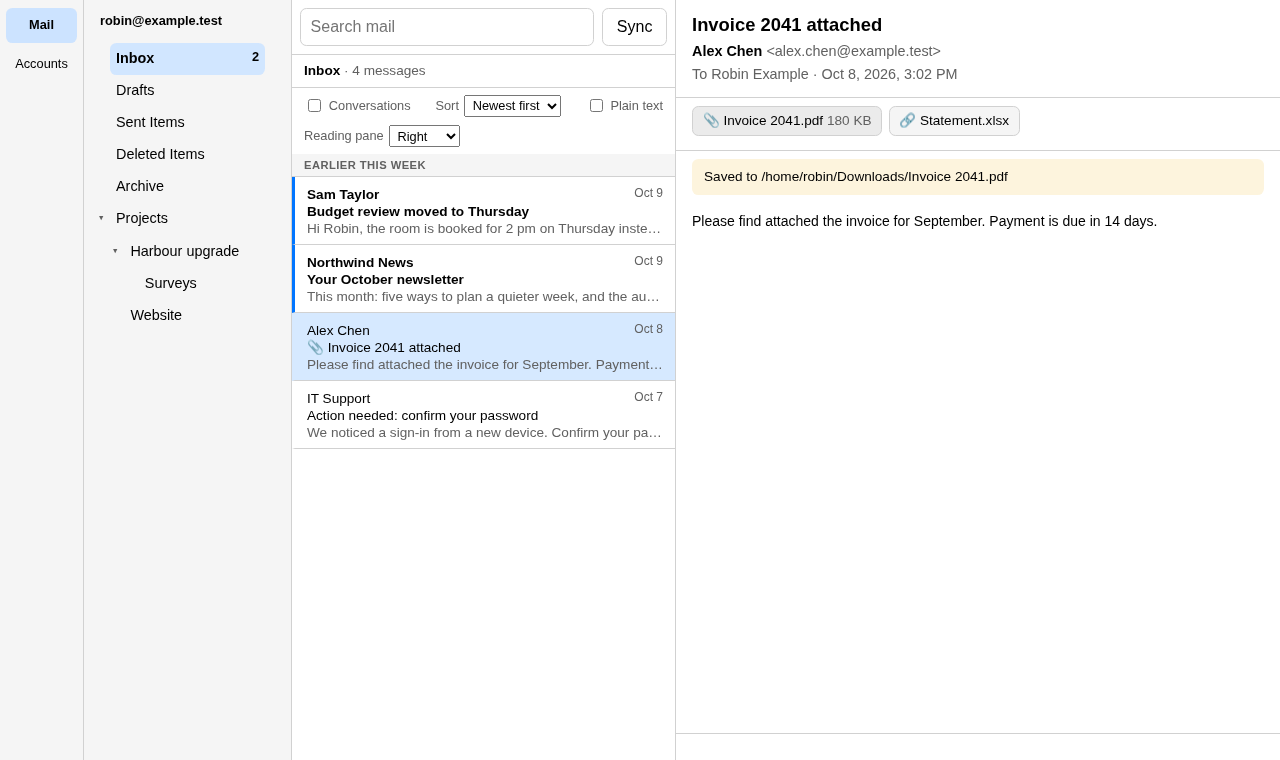
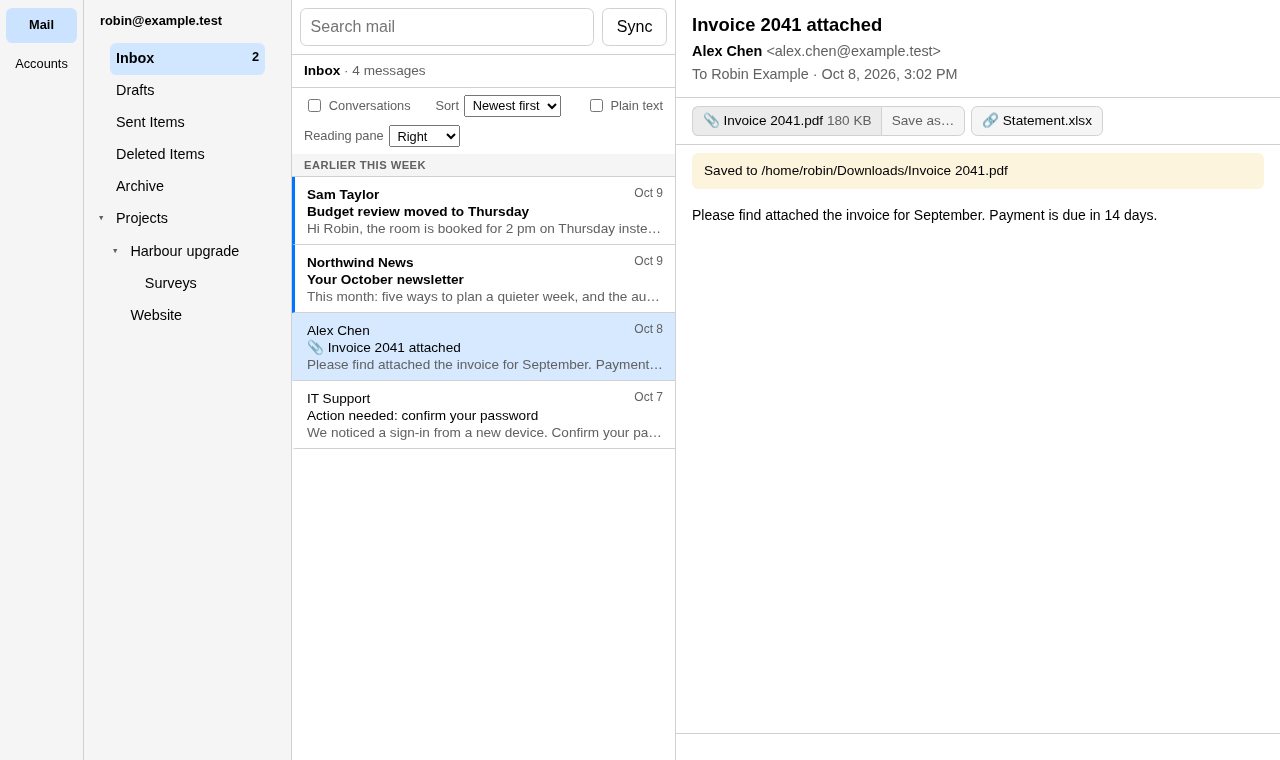
Save an attachment to a place chosen in the system's save dialog
"Save as…" beside an attachment asks where with the system's own dialog,
offering the sender's name cut down to a plain file name, and saves
there. The dialog only chooses; the saving is still the command. The
window is given no file access of its own: the dialog plugin's commands
are not granted to it.

Claude-Session: https://claude.ai/code/session_01Q2Y6RTMSZRHYMsgt54e2W8

Changed region(s): [[0.5312, 0.1513, 1.0, 0.3026]]

diff --git a/app/tests/mail.spec.ts b/app/tests/mail.spec.ts
@@ -295,12 +295,12 @@ test("attachments are listed on the message and saved when asked", async ({ page
 
     // The picture within the body is not offered as a file.
     await expect(attached.getByRole("listitem")).toHaveCount(2);
-    await expect(attached.getByRole("button", { name: /Invoice 2041\.pdf/ })).toContainText("180 KB");
+    await expect(attached.getByRole("button", { name: /^📎 Invoice 2041\.pdf/ })).toContainText("180 KB");
     // A link to a file kept elsewhere has nothing to save.
     await expect(attached.getByRole("button", { name: /Statement/ })).toHaveCount(0);
     await expect(attached).toContainText("Statement.xlsx");
 
-    await attached.getByRole("button", { name: /Invoice 2041\.pdf/ }).click();
+    await attached.getByRole("button", { name: /^📎 Invoice 2041\.pdf/ }).click();
     await expect(page.getByText("Saved to /home/robin/Downloads/Invoice 2041.pdf")).toBeVisible();
     await picture(page, "attachments");
 
@@ -398,4 +398,24 @@ test("a list by date is marked off into today, yesterday and earlier", async ({ 
     await page.getByRole("combobox", { name: "Sort" }).selectOption("sender");
     await expect(page.locator(".stretch")).toHaveCount(0);
     await expect(page.locator(".starts")).toHaveCount(0);
+});
+
+test("an attachment can be saved to a place chosen in the save dialog", async ({ page }) => {
+    await withCore(page, { accounts: [robin], mail: inbox, savePath: "/home/robin/Documents/September.pdf" });
+    await messages(page).getByRole("option").filter({ hasText: "Invoice 2041" }).click();
+
+    await page.getByRole("button", { name: "Save Invoice 2041.pdf as…" }).click();
+
+    await expect(page.getByText("Saved to /home/robin/Documents/September.pdf")).toBeVisible();
+    expect((await ran(page)).find((r) => r.command === "mail.attachments.save")?.args.path).toBe("/home/robin/Documents/September.pdf");
+});
+
+test("dismissing the save dialog saves nothing", async ({ page }) => {
+    await withCore(page, { accounts: [robin], mail: inbox });
+    await messages(page).getByRole("option").filter({ hasText: "Invoice 2041" }).click();
+
+    await page.getByRole("button", { name: "Save Invoice 2041.pdf as…" }).click();
+
+    await expect(page.getByText("Saved to")).toHaveCount(0);
+    expect((await ran(page)).some((r) => r.command === "mail.attachments.save")).toBe(false);
 });

diff --git a/app/tests/core.ts b/app/tests/core.ts
@@ -168,6 +168,8 @@ export interface FakeCore {
     arrives?: FakeMail[];
     /** The words the next sync fails with. */
     syncFails?: string;
+    /** Where the save dialog says to save. Left out, the dialog is dismissed. */
+    savePath?: string;
     /** Folders already pinned as favourites. */
     pinned?: string[];
     /** True when Brolga has no app registration of its own, as now. */
@@ -323,7 +325,7 @@ export async function withCore(page: Page, core: FakeCore = {}) {
             "mail.attachments.save": (args) => {
                 const found = mail.find((each) => each.id === args.message_id)?.attachments?.find((each) => each.id === args.attachment_id);
                 if (!found) throw { code: "failed", message: "This message has no such attachment." };
-                return { path: `/home/robin/Downloads/${found.name}`, size: found.size };
+                return { path: args.path ?? `/home/robin/Downloads/${found.name}`, size: found.size };
             },
             "mail.search": (args) => {
                 const words = String(args.query).toLowerCase().split(/\s+/).filter(Boolean);
@@ -353,6 +355,8 @@ export async function withCore(page: Page, core: FakeCore = {}) {
             ran,
             __TAURI_INTERNALS__: {
                 invoke: async (name: string, payload: { command: string; args?: Record<string, unknown> }) => {
+                    // The save dialog: the place this test says was chosen, or dismissed.
+                    if (name === "choose_save_path") return core.savePath ?? null;
                     if (name !== "execute_command") throw new Error(`The frontend called ${name}, which is not a command.`);
                     const run = commands[payload.command];
                     if (!run) throw { code: "unknown_command", message: `there is no command called \`${payload.command}\`` };

diff --git a/app/src/lib/ReadingPane.svelte b/app/src/lib/ReadingPane.svelte
@@ -13,7 +13,8 @@
         attachments: Attachment[];
         /** What became of the last attachment saved: where it went, or why it did not. */
         saved: string | null;
-        onSave: (attachment: Attachment) => void;
+        /** Save to the downloads folder, or with `ask` to a place chosen in a dialog. */
+        onSave: (attachment: Attachment, ask?: boolean) => void;
         /** Always show this sender's remote pictures, or stop. */
         onTrust: (address: string, trusted: boolean) => void;
         onShowImages: () => void;
@@ -177,6 +178,9 @@
                             <button type="button" class="attachment" title="Save to your downloads folder" onclick={() => onSave(each)}>
                                 📎 {each.name || "Attachment"} <span class="muted">{size(each.size)}</span>
                             </button>
+                            <button type="button" class="attachment as" aria-label="Save {each.name || 'attachment'} as…" title="Choose where to save it" onclick={() => onSave(each, true)}>
+                                Save as…
+                            </button>
                         {/if}
                     </li>
                 {/each}
@@ -271,6 +275,20 @@
         flex-wrap: wrap;
         gap: 0.4rem;
         border-bottom: 1px solid var(--line);
+    }
+
+    .attachments li {
+        display: flex;
+    }
+
+    .attachments li .attachment:first-child:not(:last-child) {
+        border-right: 0;
+        border-radius: 0.4rem 0 0 0.4rem;
+    }
+
+    .attachment.as {
+        border-radius: 0 0.4rem 0.4rem 0;
+        color: var(--muted);
     }
 
     .attachment {

diff --git a/app/src/lib/Mail.svelte b/app/src/lib/Mail.svelte
@@ -1,6 +1,6 @@
 <script lang="ts">
     import type { Account } from "./accounts";
-    import { say } from "./commands";
+    import { chooseSavePath, say } from "./commands";
     import { type Attachment, type Folder, type Message, type Opened, type Sort, type View, getConversation, listAttachments, listFolders, listMessages, openLink, openMessage, saveAttachment, searchMail, setFavourite, setTrustedSender, syncNow } from "./mail";
     import MessageList from "./MessageList.svelte";
     import ReadingPane from "./ReadingPane.svelte";
@@ -35,11 +35,15 @@
     /** What became of the last attachment saved. */
     let saved = $state<string | null>(null);
 
-    async function save(attachment: Attachment) {
+    /** Save to the downloads folder, or first ask where. */
+    async function save(attachment: Attachment, ask = false) {
         if (!accountId || !opened) return;
         saved = null;
         try {
-            const result = await saveAttachment(accountId, opened.message.id, attachment.id);
+            const messageId = opened.message.id;
+            const path = ask ? await chooseSavePath(attachment.name || "attachment") : undefined;
+            if (ask && !path) return;
+            const result = await saveAttachment(accountId, messageId, attachment.id, path ?? undefined);
             saved = `Saved to ${result.path}`;
         } catch (failure) {
             saved = say(failure);

diff --git a/app/src/lib/mail.ts b/app/src/lib/mail.ts
@@ -114,8 +114,8 @@ export const searchMail = async (account_id: string, query: string) =>
 export const listAttachments = async (account_id: string, message_id: string) =>
     (await execute<{ attachments: Attachment[] }>("mail.attachments.list", { account_id, message_id })).attachments;
 
-export const saveAttachment = (account_id: string, message_id: string, attachment_id: string) =>
-    execute<{ path: string; size: number }>("mail.attachments.save", { account_id, message_id, attachment_id });
+export const saveAttachment = (account_id: string, message_id: string, attachment_id: string, path?: string) =>
+    execute<{ path: string; size: number }>("mail.attachments.save", { account_id, message_id, attachment_id, ...(path ? { path } : {}) });
 
 /** A size in bytes as a person would say it. */
 export function size(bytes: number): string {

diff --git a/app/src/lib/commands.ts b/app/src/lib/commands.ts
@@ -16,6 +16,13 @@ export function execute<T>(command: string, args: Record<string, unknown> = {}):
     return invoke<T>("execute_command", { command, args });
 }
 
+/**
+ * Ask where to save a file, with the system's own dialog. Null if it was
+ * dismissed. A dialog is the window's own business, so this is the one thing
+ * here that is not a command; the saving that follows is.
+ */
+export const chooseSavePath = (suggestedName: string) => invoke<string | null>("choose_save_path", { suggestedName });
+
 export function isCommandFailure(value: unknown): value is CommandFailure {
     return typeof value === "object" && value !== null && "code" in value && "message" in value;
 }

diff --git a/crates/core/src/mail_commands.rs b/crates/core/src/mail_commands.rs
@@ -122,6 +122,7 @@ struct SaveAttachment {
     account_id: Option<String>,
     message_id: String,
     attachment_id: String,
+    path: Option<String>,
 }
 
 #[derive(Deserialize)]
@@ -448,10 +449,16 @@ async fn attachments(context: Context, args: Attachments) -> Result<Value, Comma
 }
 
 async fn save_attachment(context: Context, args: SaveAttachment) -> Result<Value, CommandError> {
-    let folder = context
-        .downloads
-        .clone()
-        .ok_or_else(|| failed("This computer has no downloads folder to save into."))?;
+    let chosen = args.path.as_deref().map(std::path::PathBuf::from);
+    let folder = match &chosen {
+        Some(_) => None,
+        None => Some(
+            context
+                .downloads
+                .clone()
+                .ok_or_else(|| failed("This computer has no downloads folder to save into."))?,
+        ),
+    };
     let account = context
         .account(args.account_id.as_deref())
         .map_err(failed)?;
@@ -490,10 +497,14 @@ async fn save_attachment(context: Context, args: SaveAttachment) -> Result<Value
     }
 
     let size = content.len();
-    let path = tokio::task::spawn_blocking(move || crate::saving::save(&folder, &name, &content))
-        .await
-        .map_err(failed)?
-        .map_err(|e| failed(format!("The attachment could not be saved. {e}")))?;
+    let path = tokio::task::spawn_blocking(move || match (chosen, folder) {
+        (Some(path), _) => crate::saving::save_as(&path, &content),
+        (None, Some(folder)) => crate::saving::save(&folder, &name, &content),
+        (None, None) => Err(std::io::Error::other("nowhere to save to")),
+    })
+    .await
+    .map_err(failed)?
+    .map_err(|e| failed(format!("The attachment could not be saved. {e}")))?;
 
     Ok(json!({ "path": path.to_string_lossy(), "size": size }))
 }
@@ -1087,7 +1098,11 @@ pub(crate) fn register(registry: &mut Registry, context: Context) -> Result<(), 
                 "properties": {
                     "account_id": account_id_property(),
                     "message_id": { "type": "string" },
-                    "attachment_id": { "type": "string", "description": "From mail.attachments.list." }
+                    "attachment_id": { "type": "string", "description": "From mail.attachments.list." },
+                    "path": {
+                        "type": "string",
+                        "description": "A full path to save to instead, as chosen by a person in a save dialog. Whatever is there is replaced."
+                    }
                 },
                 "required": ["message_id", "attachment_id"],
                 "additionalProperties": false

diff --git a/app/src-tauri/src/lib.rs b/app/src-tauri/src/lib.rs
@@ -9,11 +9,12 @@ use std::sync::Arc;
 use brolga_auth::Authority;
 use brolga_commands::{CommandError, Registry};
 use brolga_control::{Server, default_endpoint};
-use brolga_core::{Core, CoreOptions, DEFAULT_CLIENT_ID};
+use brolga_core::{Core, CoreOptions, DEFAULT_CLIENT_ID, safe_file_name};
 use brolga_platform::{SystemSecrets, data_dir, downloads_dir, open_in_browser};
 use serde::Serialize;
 use serde_json::Value;
 use tauri::State;
+use tauri_plugin_dialog::DialogExt;
 
 /// A command that did not run, as the frontend receives it.
 #[derive(Serialize)]
@@ -43,6 +44,30 @@ async fn execute_command(
     Ok(registry.execute(&command, args).await?)
 }
 
+/// Ask where to save a file, with the system's own dialog. Gives back the
+/// place chosen, or nothing if the dialog was dismissed. Choosing is all it
+/// does: the saving is a command, like everything else.
+///
+/// The name offered is the sender's, cut down to a plain file name first.
+#[tauri::command]
+async fn choose_save_path(app: tauri::AppHandle, suggested_name: String) -> Option<String> {
+    let (chosen, choice) = tokio::sync::oneshot::channel();
+    let mut dialog = app
+        .dialog()
+        .file()
+        .set_file_name(safe_file_name(&suggested_name));
+    if let Some(downloads) = downloads_dir() {
+        dialog = dialog.set_directory(downloads);
+    }
+    dialog.save_file(move |path| {
+        let _ = chosen.send(path);
+    });
+
+    let path = choice.await.ok()??.into_path().ok()?;
+
+    Some(path.to_string_lossy().into_owned())
+}
+
 pub fn run() -> Result<(), Box<dyn std::error::Error>> {
     // Opening the channel is how a second copy finds out it is one, so it is
     // done first, before any data is opened or there is a window to show.
@@ -65,12 +90,13 @@ pub fn run() -> Result<(), Box<dyn std::error::Error>> {
     let control = registry.clone();
 
     tauri::Builder::default()
+        .plugin(tauri_plugin_dialog::init())
         .manage(registry)
         .setup(move |_app| {
             tauri::async_runtime::spawn(server.run(control));
             Ok(())
         })
-        .invoke_handler(tauri::generate_handler![execute_command])
+        .invoke_handler(tauri::generate_handler![execute_command, choose_save_path])
         .run(tauri::generate_context!())?;
 
     Ok(())

diff --git a/crates/core/src/saving.rs b/crates/core/src/saving.rs
@@ -97,6 +97,22 @@ pub fn save(folder: &Path, name: &str, content: &[u8]) -> std::io::Result<PathBu
     ))
 }
 
+/// Write a file at a place a person chose in a save dialog, replacing what
+/// is there: the dialog has already asked about that.
+pub fn save_as(path: &Path, content: &[u8]) -> std::io::Result<PathBuf> {
+    if !path.is_absolute() {
+        return Err(std::io::Error::new(
+            std::io::ErrorKind::InvalidInput,
+            "the place to save to must be a full path",
+        ));
+    }
+    let mut file = std::fs::File::create(path)?;
+    file.write_all(content)?;
+    file.sync_all()?;
+
+    Ok(path.to_path_buf())
+}
+
 #[cfg(test)]
 mod tests {
     use super::*;
@@ -138,6 +154,20 @@ mod tests {
 
         assert_eq!(safe.chars().count(), LONGEST);
         assert!(safe.ends_with(".pdf"));
+    }
+
+    #[test]
+    fn saving_as_writes_where_it_is_told_and_only_to_a_full_path() {
+        let folder = std::env::temp_dir().join(format!("brolga-saving-as-{}", std::process::id()));
+        std::fs::create_dir_all(&folder).unwrap();
+        let path = folder.join("chosen.txt");
+
+        save_as(&path, b"one").unwrap();
+        save_as(&path, b"two").unwrap();
+
+        assert_eq!(std::fs::read(&path).unwrap(), b"two");
+        assert!(save_as(Path::new("relative.txt"), b"x").is_err());
+        let _ = std::fs::remove_dir_all(&folder);
     }
 
     #[test]

diff --git a/crates/core/tests/mail.rs b/crates/core/tests/mail.rs
@@ -301,6 +301,19 @@ async fn an_attachment_is_saved_under_a_safe_name_and_never_over_another() {
     assert!(link.unwrap_err().to_string().contains("link to a file"));
     assert!(missing.is_err());
 
+    // A place chosen in a save dialog is used as it is.
+    let chosen = first.parent().unwrap().join("chosen name.txt");
+    let as_chosen = f
+        .registry
+        .execute(
+            "mail.attachments.save",
+            json!({ "message_id": id, "attachment_id": "attachment-0", "path": chosen }),
+        )
+        .await
+        .unwrap();
+    assert_eq!(as_chosen["path"], json!(chosen));
+    assert_eq!(std::fs::read(&chosen).unwrap(), b"[Desktop Entry]");
+
     let _ = std::fs::remove_dir_all(first.parent().unwrap());
 }
 

diff --git a/crates/core/src/lib.rs b/crates/core/src/lib.rs
@@ -20,6 +20,8 @@ use brolga_auth::{Accounts, AuthError, Authority, SecretStore, TokenClient};
 use brolga_commands::{Registry, RegistryError, builtin_registry};
 use brolga_store::{GlobalDb, StoreError};
 
+pub use saving::safe_name as safe_file_name;
+
 /// Brolga's own app registration, for organisations that have not made one.
 /// There is none yet: registering it with Microsoft is the owner's to do.
 /// Until then every sign-in names a client ID of the organisation's own.
